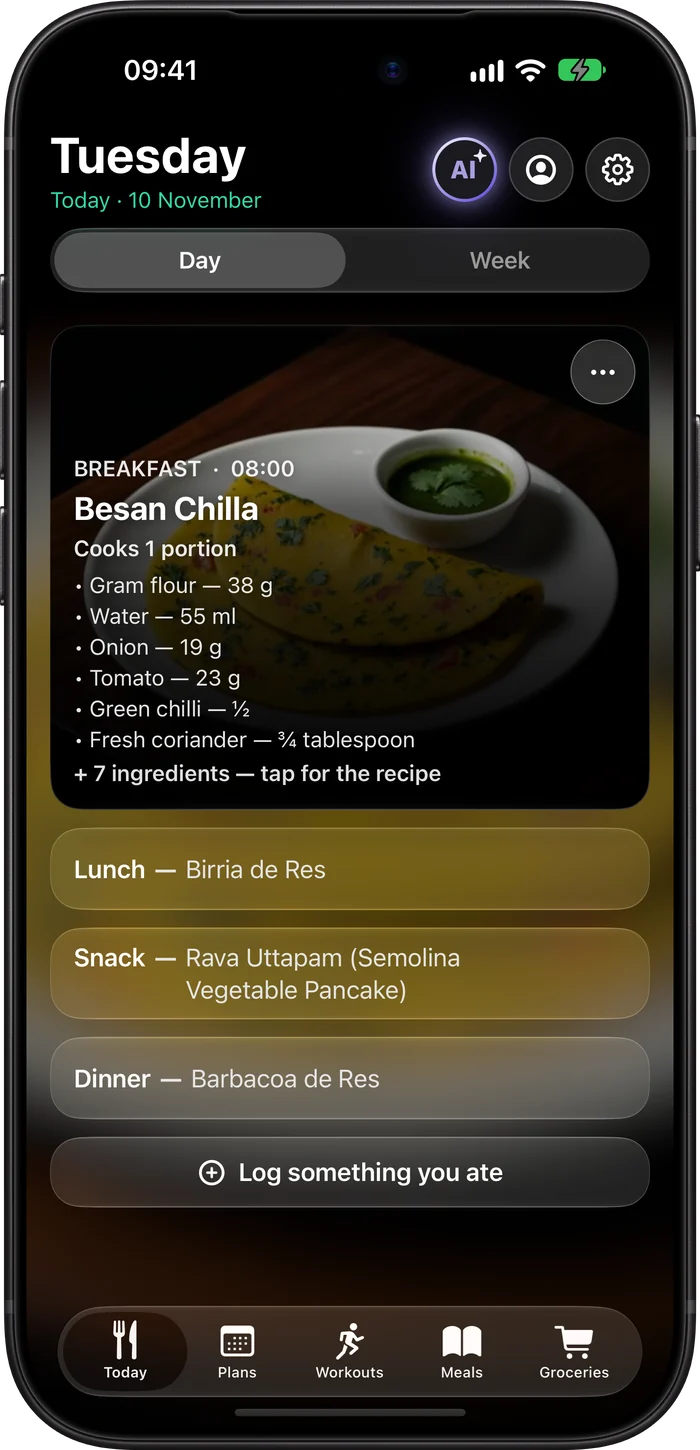
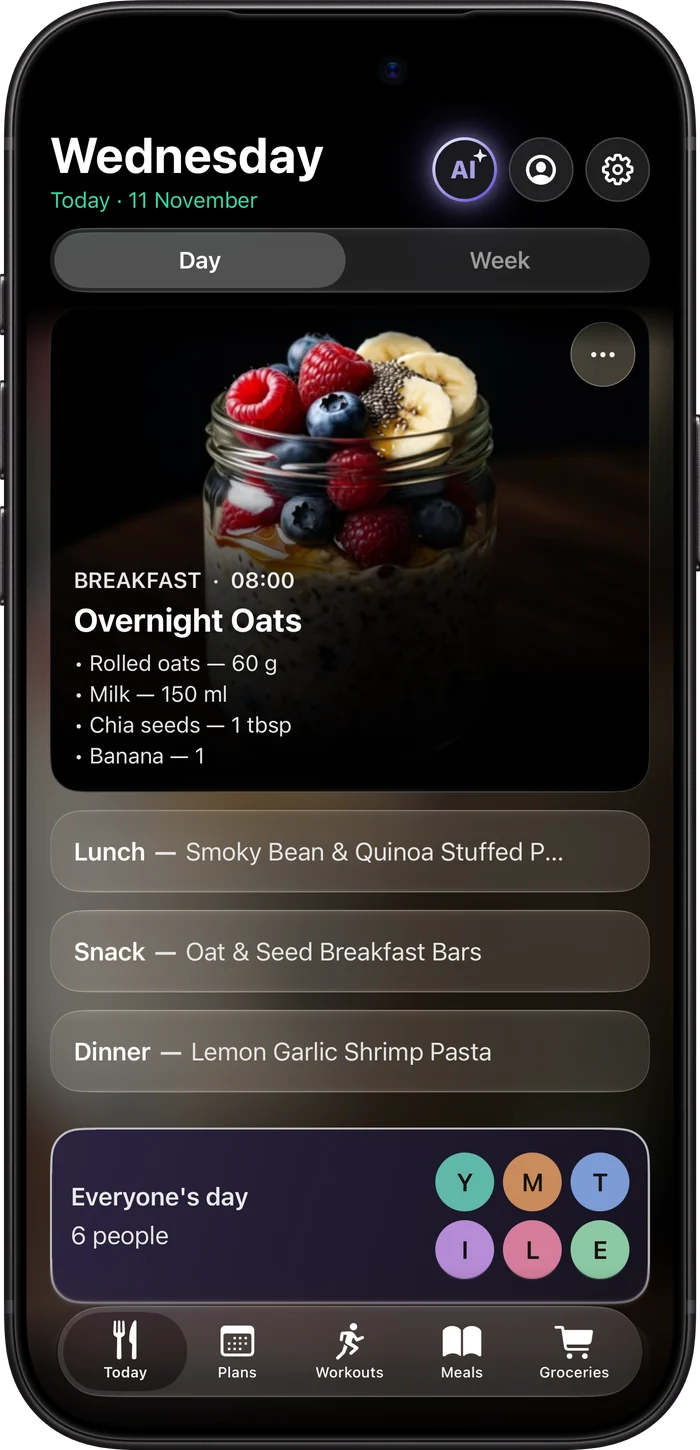
The familiar week on every phone, no status bar, the household section, three plans in the price answer
André, 2026-11-11: "yes publish it". Source: the website repo 4a9877c (local).

diff --git a/index.html b/index.html
@@ -38,7 +38,7 @@
       <p class="soon"><i aria-hidden="true"></i><span>Coming soon to the App Store</span></p>
     </div>
     <figure class="phone hero-phone">
-      <picture><source srcset="assets/hero-iphone.webp?v=5c231a31 760w, assets/hero-iphone@2x.webp?v=8dc84dbd 1140w" sizes="(max-width: 900px) 300px, 440px" type="image/webp"><img src="assets/hero-iphone.png?v=730b5ca4" srcset="assets/hero-iphone.png?v=730b5ca4 760w, assets/hero-iphone@2x.png?v=c7132574 1140w"
+      <picture><source srcset="assets/hero-iphone.webp?v=f7dcc6ce 760w, assets/hero-iphone@2x.webp?v=64be5ce1 1140w" sizes="(max-width: 900px) 300px, 440px" type="image/webp"><img src="assets/hero-iphone.png?v=5732d93a" srcset="assets/hero-iphone.png?v=5732d93a 760w, assets/hero-iphone@2x.png?v=6419e1a2 1140w"
            sizes="(max-width: 900px) 300px, 440px" alt="NoNor's Today screen on iPhone"></picture>
     </figure>
   </div>
@@ -48,37 +48,41 @@
   <div class="rule"></div>
   <p>Plan the week once.<br>Then just do <em>the next thing</em>.</p>
   <div class="rule"></div>
-  <nav class="map" aria-label="What NoNor does"><a class="it" href="#plan"><span class="ic"><svg viewBox="0 0 24 24" fill="none" stroke="currentColor" stroke-width="1.8" stroke-linecap="round" stroke-linejoin="round" aria-hidden="true"><rect x="3" y="5" width="18" height="16" rx="3"/><path d="M3 10h18M8 3v4M16 3v4"/></svg></span><span>Plan</span></a><a class="it" href="#food"><span class="ic"><svg viewBox="0 0 24 24" fill="none" stroke="currentColor" stroke-width="1.8" stroke-linecap="round" stroke-linejoin="round" aria-hidden="true"><path d="M7 3v8M5 3v5a2 2 0 0 0 4 0V3M7 11v10M17 3c-2 1-3 4-3 7h3v11"/></svg></span><span>Eat</span></a><a class="it" href="#move"><span class="ic"><svg viewBox="0 0 24 24" fill="none" stroke="currentColor" stroke-width="1.8" stroke-linecap="round" stroke-linejoin="round" aria-hidden="true"><path d="M6.5 6.5v11M17.5 6.5v11M3.5 9v6M20.5 9v6M6.5 12h11"/></svg></span><span>Move</span></a></nav>
+  <nav class="map" aria-label="What NoNor does"><a class="it" href="#plan"><span class="ic"><svg viewBox="0 0 24 24" fill="none" stroke="currentColor" stroke-width="1.8" stroke-linecap="round" stroke-linejoin="round" aria-hidden="true"><rect x="3" y="5" width="18" height="16" rx="3"/><path d="M3 10h18M8 3v4M16 3v4"/></svg></span><span>Plan</span></a><a class="it" href="#household"><span class="ic"><svg viewBox="0 0 24 24" fill="none" stroke="currentColor" stroke-width="1.8" stroke-linecap="round" stroke-linejoin="round" aria-hidden="true"><circle cx="9" cy="8" r="3.2"/><path d="M3 20c0-3.3 2.7-6 6-6s6 2.7 6 6"/><circle cx="17" cy="9" r="2.6"/><path d="M16.2 14.1c2.7.4 4.8 2.8 4.8 5.9"/></svg></span><span>Together</span></a><a class="it" href="#food"><span class="ic"><svg viewBox="0 0 24 24" fill="none" stroke="currentColor" stroke-width="1.8" stroke-linecap="round" stroke-linejoin="round" aria-hidden="true"><path d="M7 3v8M5 3v5a2 2 0 0 0 4 0V3M7 11v10M17 3c-2 1-3 4-3 7h3v11"/></svg></span><span>Eat</span></a><a class="it" href="#move"><span class="ic"><svg viewBox="0 0 24 24" fill="none" stroke="currentColor" stroke-width="1.8" stroke-linecap="round" stroke-linejoin="round" aria-hidden="true"><path d="M6.5 6.5v11M17.5 6.5v11M3.5 9v6M20.5 9v6M6.5 12h11"/></svg></span><span>Move</span></a></nav>
 </div></section>
 
 <div id="features"></div>
 
 <section class="chapter" id="plan"><div class="wrap grid">
   <div class="txt reveal"><p class="kicker"><span class="ic"><svg viewBox="0 0 24 24" fill="none" stroke="currentColor" stroke-width="1.8" stroke-linecap="round" stroke-linejoin="round" aria-hidden="true"><rect x="3" y="5" width="18" height="16" rx="3"/><path d="M3 10h18M8 3v4M16 3v4"/></svg></span>One plan</p><h2>Meals and training on the <em>same calendar.</em></h2><p class="lead">Let NoNor draft the week, with your food shaped around your training, or build it yourself with your coach's plan a tap away.</p><p class="pro"><span class="ic"><svg viewBox="0 0 24 24" fill="none" stroke="currentColor" stroke-width="1.8" stroke-linecap="round" stroke-linejoin="round" aria-hidden="true"><path d="M21 3 10 14M21 3l-7 18-4-7-7-4z"/></svg></span><span><b>Coaches and nutritionists:</b> build a complete plan and send it to each client with one link.</span></p></div>
-  <div class="stage reveal"><div class="card"><img src="assets/bg-plan.jpg?v=4c524e6b" alt="" loading="lazy"></div><figure class="phone"><picture><source srcset="assets/f-plans.webp?v=2c2e33bb" type="image/webp"><img src="assets/f-plans.png?v=da8592eb" alt="The plan calendar showing two weeks of meals and workouts" loading="lazy"></picture></figure></div>
+  <div class="stage reveal"><div class="card"><img src="assets/bg-plan.jpg?v=4c524e6b" alt="" loading="lazy"></div><figure class="phone"><picture><source srcset="assets/f-plans.webp?v=d1c494c0" type="image/webp"><img src="assets/f-plans.png?v=ed8eb340" alt="The plan calendar showing two weeks of meals and workouts" loading="lazy"></picture></figure></div>
+</div></section>
+<section class="chapter flip" id="household"><div class="wrap grid">
+  <div class="txt reveal"><p class="kicker"><span class="ic"><svg viewBox="0 0 24 24" fill="none" stroke="currentColor" stroke-width="1.8" stroke-linecap="round" stroke-linejoin="round" aria-hidden="true"><circle cx="9" cy="8" r="3.2"/><path d="M3 20c0-3.3 2.7-6 6-6s6 2.7 6 6"/><circle cx="17" cy="9" r="2.6"/><path d="M16.2 14.1c2.7.4 4.8 2.8 4.8 5.9"/></svg></span>Household</p><h2>One kitchen. <em>Everyone's own day.</em></h2><p class="lead">Up to six people, children without a phone included, each with their own day, portions and allergies. Give anyone their own plan and training, and one shopping list still covers everyone's week.</p></div>
+  <div class="stage reveal"><div class="card"><img src="assets/bg-household.jpg?v=c75474dc" alt="" loading="lazy" style="object-position: 0% 50%"></div><figure class="phone"><picture><source srcset="assets/f-household.webp?v=43df0746" type="image/webp"><img src="assets/f-household.png?v=9092cd16" alt="Today for the whole household: each person&#x27;s meals and workouts for the day" loading="lazy"></picture></figure></div>
 </div></section>
 <section class="chapter" id="food"><div class="wrap grid">
-  <div class="txt reveal"><p class="kicker"><span class="ic"><svg viewBox="0 0 24 24" fill="none" stroke="currentColor" stroke-width="1.8" stroke-linecap="round" stroke-linejoin="round" aria-hidden="true"><path d="M7 3v8M5 3v5a2 2 0 0 0 4 0V3M7 11v10M17 3c-2 1-3 4-3 7h3v11"/></svg></span>Meal organizer</p><h2>Every meal organized. <em>Every number calculated.</em></h2><p class="lead">Your recipes and ours in one place, planned into the week, shopped for in one list and cooked step by step. Nutrition is worked out from thousands of ingredients, nearly all from national food databases, and every dish is checked for everyone's allergies and diets.</p></div>
-  <div class="stage reveal"><div class="card food"><div class="wall" aria-hidden="true"><div class="row r0"><div class="track"><img src="assets/food/shakshuka.webp?v=2d48ee8c" alt="" loading="eager" fetchpriority="low" decoding="async" width="240" height="240"><img src="assets/food/farro_and_roasted_veg_salad.webp?v=a2a5d552" alt="" loading="eager" fetchpriority="low" decoding="async" width="240" height="240"><img src="assets/food/berry_overnight_oats.webp?v=8e34187c" alt="" loading="eager" fetchpriority="low" decoding="async" width="240" height="240"><img src="assets/food/risotto_ai_funghi.webp?v=a287b931" alt="" loading="eager" fetchpriority="low" decoding="async" width="240" height="240"><img src="assets/food/salad_shirazi.webp?v=f6f6529c" alt="" loading="eager" fetchpriority="low" decoding="async" width="240" height="240"><img src="assets/food/chickpea_butternut_tagine.webp?v=38a315c4" alt="" loading="eager" fetchpriority="low" decoding="async" width="240" height="240"><img src="assets/food/avocado_toast_with_egg.webp?v=cdf8da00" alt="" loading="eager" fetchpriority="low" decoding="async" width="240" height="240"><img src="assets/food/soba_noodle_soup.webp?v=ac51154b" alt="" loading="eager" fetchpriority="low" decoding="async" width="240" height="240"><img src="assets/food/vegetable_paella.webp?v=e407e1fe" alt="" loading="eager" fetchpriority="low" decoding="async" width="240" height="240"><img src="assets/food/waldorf_salad.webp?v=e333068a" alt="" loading="eager" fetchpriority="low" decoding="async" width="240" height="240"><img src="assets/food/taameya_egyptian_falafel.webp?v=c1a0d89e" alt="" loading="eager" fetchpriority="low" decoding="async" width="240" height="240"><img src="assets/food/strawberry_granola_parfait.webp?v=30036205" alt="" loading="eager" fetchpriority="low" decoding="async" width="240" height="240"><img src="assets/food/shakshuka.webp?v=2d48ee8c" alt="" loading="eager" fetchpriority="low" decoding="async" width="240" height="240"><img src="assets/food/farro_and_roasted_veg_salad.webp?v=a2a5d552" alt="" loading="eager" fetchpriority="low" decoding="async" width="240" height="240"><img src="assets/food/berry_overnight_oats.webp?v=8e34187c" alt="" loading="eager" fetchpriority="low" decoding="async" width="240" height="240"><img src="assets/food/risotto_ai_funghi.webp?v=a287b931" alt="" loading="eager" fetchpriority="low" decoding="async" width="240" height="240"><img src="assets/food/salad_shirazi.webp?v=f6f6529c" alt="" loading="eager" fetchpriority="low" decoding="async" width="240" height="240"><img src="assets/food/chickpea_butternut_tagine.webp?v=38a315c4" alt="" loading="eager" fetchpriority="low" decoding="async" width="240" height="240"><img src="assets/food/avocado_toast_with_egg.webp?v=cdf8da00" alt="" loading="eager" fetchpriority="low" decoding="async" width="240" height="240"><img src="assets/food/soba_noodle_soup.webp?v=ac51154b" alt="" loading="eager" fetchpriority="low" decoding="async" width="240" height="240"><img src="assets/food/vegetable_paella.webp?v=e407e1fe" alt="" loading="eager" fetchpriority="low" decoding="async" width="240" height="240"><img src="assets/food/waldorf_salad.webp?v=e333068a" alt="" loading="eager" fetchpriority="low" decoding="async" width="240" height="240"><img src="assets/food/taameya_egyptian_falafel.webp?v=c1a0d89e" alt="" loading="eager" fetchpriority="low" decoding="async" width="240" height="240"><img src="assets/food/strawberry_granola_parfait.webp?v=30036205" alt="" loading="eager" fetchpriority="low" decoding="async" width="240" height="240"></div></div><div class="row r1"><div class="track"><img src="assets/food/crispy_tofu_buddha_bowl.webp?v=65043e0f" alt="" loading="eager" fetchpriority="low" decoding="async" width="240" height="240"><img src="assets/food/cherry_tomato_and_mozzarella_pasta.webp?v=eadd3695" alt="" loading="eager" fetchpriority="low" decoding="async" width="240" height="240"><img src="assets/food/gazpacho_andaluz.webp?v=58b326af" alt="" loading="eager" fetchpriority="low" decoding="async" width="240" height="240"><img src="assets/food/lentil_feta_roasted_beet_bowl.webp?v=f9b3bdc6" alt="" loading="eager" fetchpriority="low" decoding="async" width="240" height="240"><img src="assets/food/buttermilk_blueberry_pancakes.webp?v=95162a3c" alt="" loading="eager" fetchpriority="low" decoding="async" width="240" height="240"><img src="assets/food/larb_tao_hu_thai_crumbled_tofu_herb_salad.webp?v=c1054a94" alt="" loading="eager" fetchpriority="low" decoding="async" width="240" height="240"><img src="assets/food/salmon_quinoa_bowl_with_roasted_veg.webp?v=0553f9d3" alt="" loading="eager" fetchpriority="low" decoding="async" width="240" height="240"><img src="assets/food/hummus_veggie_sticks.webp?v=3a87432e" alt="" loading="eager" fetchpriority="low" decoding="async" width="240" height="240"><img src="assets/food/frittata_di_zucchine.webp?v=a71fc45b" alt="" loading="eager" fetchpriority="low" decoding="async" width="240" height="240"><img src="assets/food/spinach_and_strawberry_salad.webp?v=0c65a11c" alt="" loading="eager" fetchpriority="low" decoding="async" width="240" height="240"><img src="assets/food/paella_de_marisco.webp?v=8c14d0ef" alt="" loading="eager" fetchpriority="low" decoding="async" width="240" height="240"><img src="assets/food/wild_rice_salad.webp?v=061606f0" alt="" loading="eager" fetchpriority="low" decoding="async" width="240" height="240"><img src="assets/food/crispy_tofu_buddha_bowl.webp?v=65043e0f" alt="" loading="eager" fetchpriority="low" decoding="async" width="240" height="240"><img src="assets/food/cherry_tomato_and_mozzarella_pasta.webp?v=eadd3695" alt="" loading="eager" fetchpriority="low" decoding="async" width="240" height="240"><img src="assets/food/gazpacho_andaluz.webp?v=58b326af" alt="" loading="eager" fetchpriority="low" decoding="async" width="240" height="240"><img src="assets/food/lentil_feta_roasted_beet_bowl.webp?v=f9b3bdc6" alt="" loading="eager" fetchpriority="low" decoding="async" width="240" height="240"><img src="assets/food/buttermilk_blueberry_pancakes.webp?v=95162a3c" alt="" loading="eager" fetchpriority="low" decoding="async" width="240" height="240"><img src="assets/food/larb_tao_hu_thai_crumbled_tofu_herb_salad.webp?v=c1054a94" alt="" loading="eager" fetchpriority="low" decoding="async" width="240" height="240"><img src="assets/food/salmon_quinoa_bowl_with_roasted_veg.webp?v=0553f9d3" alt="" loading="eager" fetchpriority="low" decoding="async" width="240" height="240"><img src="assets/food/hummus_veggie_sticks.webp?v=3a87432e" alt="" loading="eager" fetchpriority="low" decoding="async" width="240" height="240"><img src="assets/food/frittata_di_zucchine.webp?v=a71fc45b" alt="" loading="eager" fetchpriority="low" decoding="async" width="240" height="240"><img src="assets/food/spinach_and_strawberry_salad.webp?v=0c65a11c" alt="" loading="eager" fetchpriority="low" decoding="async" width="240" height="240"><img src="assets/food/paella_de_marisco.webp?v=8c14d0ef" alt="" loading="eager" fetchpriority="low" decoding="async" width="240" height="240"><img src="assets/food/wild_rice_salad.webp?v=061606f0" alt="" loading="eager" fetchpriority="low" decoding="async" width="240" height="240"></div></div><div class="row r2"><div class="track"><img src="assets/food/avocado_toast_with_egg.webp?v=cdf8da00" alt="" loading="eager" fetchpriority="low" decoding="async" width="240" height="240"><img src="assets/food/soba_noodle_soup.webp?v=ac51154b" alt="" loading="eager" fetchpriority="low" decoding="async" width="240" height="240"><img src="assets/food/vegetable_paella.webp?v=e407e1fe" alt="" loading="eager" fetchpriority="low" decoding="async" width="240" height="240"><img src="assets/food/waldorf_salad.webp?v=e333068a" alt="" loading="eager" fetchpriority="low" decoding="async" width="240" height="240"><img src="assets/food/taameya_egyptian_falafel.webp?v=c1a0d89e" alt="" loading="eager" fetchpriority="low" decoding="async" width="240" height="240"><img src="assets/food/strawberry_granola_parfait.webp?v=30036205" alt="" loading="eager" fetchpriority="low" decoding="async" width="240" height="240"><img src="assets/food/shakshuka.webp?v=2d48ee8c" alt="" loading="eager" fetchpriority="low" decoding="async" width="240" height="240"><img src="assets/food/farro_and_roasted_veg_salad.webp?v=a2a5d552" alt="" loading="eager" fetchpriority="low" decoding="async" width="240" height="240"><img src="assets/food/berry_overnight_oats.webp?v=8e34187c" alt="" loading="eager" fetchpriority="low" decoding="async" width="240" height="240"><img src="assets/food/risotto_ai_funghi.webp?v=a287b931" alt="" loading="eager" fetchpriority="low" decoding="async" width="240" height="240"><img src="assets/food/salad_shirazi.webp?v=f6f6529c" alt="" loading="eager" fetchpriority="low" decoding="async" width="240" height="240"><img src="assets/food/chickpea_butternut_tagine.webp?v=38a315c4" alt="" loading="eager" fetchpriority="low" decoding="async" width="240" height="240"><img src="assets/food/avocado_toast_with_egg.webp?v=cdf8da00" alt="" loading="eager" fetchpriority="low" decoding="async" width="240" height="240"><img src="assets/food/soba_noodle_soup.webp?v=ac51154b" alt="" loading="eager" fetchpriority="low" decoding="async" width="240" height="240"><img src="assets/food/vegetable_paella.webp?v=e407e1fe" alt="" loading="eager" fetchpriority="low" decoding="async" width="240" height="240"><img src="assets/food/waldorf_salad.webp?v=e333068a" alt="" loading="eager" fetchpriority="low" decoding="async" width="240" height="240"><img src="assets/food/taameya_egyptian_falafel.webp?v=c1a0d89e" alt="" loading="eager" fetchpriority="low" decoding="async" width="240" height="240"><img src="assets/food/strawberry_granola_parfait.webp?v=30036205" alt="" loading="eager" fetchpriority="low" decoding="async" width="240" height="240"><img src="assets/food/shakshuka.webp?v=2d48ee8c" alt="" loading="eager" fetchpriority="low" decoding="async" width="240" height="240"><img src="assets/food/farro_and_roasted_veg_salad.webp?v=a2a5d552" alt="" loading="eager" fetchpriority="low" decoding="async" width="240" height="240"><img src="assets/food/berry_overnight_oats.webp?v=8e34187c" alt="" loading="eager" fetchpriority="low" decoding="async" width="240" height="240"><img src="assets/food/risotto_ai_funghi.webp?v=a287b931" alt="" loading="eager" fetchpriority="low" decoding="async" width="240" height="240"><img src="assets/food/salad_shirazi.webp?v=f6f6529c" alt="" loading="eager" fetchpriority="low" decoding="async" width="240" height="240"><img src="assets/food/chickpea_butternut_tagine.webp?v=38a315c4" alt="" loading="eager" fetchpriority="low" decoding="async" width="240" height="240"></div></div></div></div><figure class="phone"><picture><source srcset="assets/f-recipes.webp?v=82797dbc" type="image/webp"><img src="assets/f-recipes.png?v=fe106c5c" alt="The Recipes tab: your plan&#x27;s dishes, your own recipes, and browsing by quick, healthy, cuisine and country" loading="lazy"></picture></figure></div>
+  <div class="txt reveal"><p class="kicker"><span class="ic"><svg viewBox="0 0 24 24" fill="none" stroke="currentColor" stroke-width="1.8" stroke-linecap="round" stroke-linejoin="round" aria-hidden="true"><path d="M7 3v8M5 3v5a2 2 0 0 0 4 0V3M7 11v10M17 3c-2 1-3 4-3 7h3v11"/></svg></span>Meal organizer</p><h2>Every meal <em>organized.</em></h2><p class="lead">Your recipes and ours in one place, planned into the week, shopped for in one list and cooked step by step. Nutrition is worked out from thousands of ingredients, nearly all from national food databases, and every dish is checked for everyone's allergies and diets.</p></div>
+  <div class="stage reveal"><div class="card food"><div class="wall" aria-hidden="true"><div class="row r0"><div class="track"><img src="assets/food/shakshuka.webp?v=2d48ee8c" alt="" loading="eager" fetchpriority="low" decoding="async" width="240" height="240"><img src="assets/food/farro_and_roasted_veg_salad.webp?v=a2a5d552" alt="" loading="eager" fetchpriority="low" decoding="async" width="240" height="240"><img src="assets/food/berry_overnight_oats.webp?v=8e34187c" alt="" loading="eager" fetchpriority="low" decoding="async" width="240" height="240"><img src="assets/food/risotto_ai_funghi.webp?v=a287b931" alt="" loading="eager" fetchpriority="low" decoding="async" width="240" height="240"><img src="assets/food/salad_shirazi.webp?v=f6f6529c" alt="" loading="eager" fetchpriority="low" decoding="async" width="240" height="240"><img src="assets/food/chickpea_butternut_tagine.webp?v=38a315c4" alt="" loading="eager" fetchpriority="low" decoding="async" width="240" height="240"><img src="assets/food/avocado_toast_with_egg.webp?v=cdf8da00" alt="" loading="eager" fetchpriority="low" decoding="async" width="240" height="240"><img src="assets/food/soba_noodle_soup.webp?v=ac51154b" alt="" loading="eager" fetchpriority="low" decoding="async" width="240" height="240"><img src="assets/food/vegetable_paella.webp?v=e407e1fe" alt="" loading="eager" fetchpriority="low" decoding="async" width="240" height="240"><img src="assets/food/waldorf_salad.webp?v=e333068a" alt="" loading="eager" fetchpriority="low" decoding="async" width="240" height="240"><img src="assets/food/taameya_egyptian_falafel.webp?v=c1a0d89e" alt="" loading="eager" fetchpriority="low" decoding="async" width="240" height="240"><img src="assets/food/strawberry_granola_parfait.webp?v=30036205" alt="" loading="eager" fetchpriority="low" decoding="async" width="240" height="240"><img src="assets/food/shakshuka.webp?v=2d48ee8c" alt="" loading="eager" fetchpriority="low" decoding="async" width="240" height="240"><img src="assets/food/farro_and_roasted_veg_salad.webp?v=a2a5d552" alt="" loading="eager" fetchpriority="low" decoding="async" width="240" height="240"><img src="assets/food/berry_overnight_oats.webp?v=8e34187c" alt="" loading="eager" fetchpriority="low" decoding="async" width="240" height="240"><img src="assets/food/risotto_ai_funghi.webp?v=a287b931" alt="" loading="eager" fetchpriority="low" decoding="async" width="240" height="240"><img src="assets/food/salad_shirazi.webp?v=f6f6529c" alt="" loading="eager" fetchpriority="low" decoding="async" width="240" height="240"><img src="assets/food/chickpea_butternut_tagine.webp?v=38a315c4" alt="" loading="eager" fetchpriority="low" decoding="async" width="240" height="240"><img src="assets/food/avocado_toast_with_egg.webp?v=cdf8da00" alt="" loading="eager" fetchpriority="low" decoding="async" width="240" height="240"><img src="assets/food/soba_noodle_soup.webp?v=ac51154b" alt="" loading="eager" fetchpriority="low" decoding="async" width="240" height="240"><img src="assets/food/vegetable_paella.webp?v=e407e1fe" alt="" loading="eager" fetchpriority="low" decoding="async" width="240" height="240"><img src="assets/food/waldorf_salad.webp?v=e333068a" alt="" loading="eager" fetchpriority="low" decoding="async" width="240" height="240"><img src="assets/food/taameya_egyptian_falafel.webp?v=c1a0d89e" alt="" loading="eager" fetchpriority="low" decoding="async" width="240" height="240"><img src="assets/food/strawberry_granola_parfait.webp?v=30036205" alt="" loading="eager" fetchpriority="low" decoding="async" width="240" height="240"></div></div><div class="row r1"><div class="track"><img src="assets/food/crispy_tofu_buddha_bowl.webp?v=65043e0f" alt="" loading="eager" fetchpriority="low" decoding="async" width="240" height="240"><img src="assets/food/cherry_tomato_and_mozzarella_pasta.webp?v=eadd3695" alt="" loading="eager" fetchpriority="low" decoding="async" width="240" height="240"><img src="assets/food/gazpacho_andaluz.webp?v=58b326af" alt="" loading="eager" fetchpriority="low" decoding="async" width="240" height="240"><img src="assets/food/lentil_feta_roasted_beet_bowl.webp?v=f9b3bdc6" alt="" loading="eager" fetchpriority="low" decoding="async" width="240" height="240"><img src="assets/food/buttermilk_blueberry_pancakes.webp?v=95162a3c" alt="" loading="eager" fetchpriority="low" decoding="async" width="240" height="240"><img src="assets/food/larb_tao_hu_thai_crumbled_tofu_herb_salad.webp?v=c1054a94" alt="" loading="eager" fetchpriority="low" decoding="async" width="240" height="240"><img src="assets/food/salmon_quinoa_bowl_with_roasted_veg.webp?v=0553f9d3" alt="" loading="eager" fetchpriority="low" decoding="async" width="240" height="240"><img src="assets/food/hummus_veggie_sticks.webp?v=3a87432e" alt="" loading="eager" fetchpriority="low" decoding="async" width="240" height="240"><img src="assets/food/frittata_di_zucchine.webp?v=a71fc45b" alt="" loading="eager" fetchpriority="low" decoding="async" width="240" height="240"><img src="assets/food/spinach_and_strawberry_salad.webp?v=0c65a11c" alt="" loading="eager" fetchpriority="low" decoding="async" width="240" height="240"><img src="assets/food/paella_de_marisco.webp?v=8c14d0ef" alt="" loading="eager" fetchpriority="low" decoding="async" width="240" height="240"><img src="assets/food/wild_rice_salad.webp?v=061606f0" alt="" loading="eager" fetchpriority="low" decoding="async" width="240" height="240"><img src="assets/food/crispy_tofu_buddha_bowl.webp?v=65043e0f" alt="" loading="eager" fetchpriority="low" decoding="async" width="240" height="240"><img src="assets/food/cherry_tomato_and_mozzarella_pasta.webp?v=eadd3695" alt="" loading="eager" fetchpriority="low" decoding="async" width="240" height="240"><img src="assets/food/gazpacho_andaluz.webp?v=58b326af" alt="" loading="eager" fetchpriority="low" decoding="async" width="240" height="240"><img src="assets/food/lentil_feta_roasted_beet_bowl.webp?v=f9b3bdc6" alt="" loading="eager" fetchpriority="low" decoding="async" width="240" height="240"><img src="assets/food/buttermilk_blueberry_pancakes.webp?v=95162a3c" alt="" loading="eager" fetchpriority="low" decoding="async" width="240" height="240"><img src="assets/food/larb_tao_hu_thai_crumbled_tofu_herb_salad.webp?v=c1054a94" alt="" loading="eager" fetchpriority="low" decoding="async" width="240" height="240"><img src="assets/food/salmon_quinoa_bowl_with_roasted_veg.webp?v=0553f9d3" alt="" loading="eager" fetchpriority="low" decoding="async" width="240" height="240"><img src="assets/food/hummus_veggie_sticks.webp?v=3a87432e" alt="" loading="eager" fetchpriority="low" decoding="async" width="240" height="240"><img src="assets/food/frittata_di_zucchine.webp?v=a71fc45b" alt="" loading="eager" fetchpriority="low" decoding="async" width="240" height="240"><img src="assets/food/spinach_and_strawberry_salad.webp?v=0c65a11c" alt="" loading="eager" fetchpriority="low" decoding="async" width="240" height="240"><img src="assets/food/paella_de_marisco.webp?v=8c14d0ef" alt="" loading="eager" fetchpriority="low" decoding="async" width="240" height="240"><img src="assets/food/wild_rice_salad.webp?v=061606f0" alt="" loading="eager" fetchpriority="low" decoding="async" width="240" height="240"></div></div><div class="row r2"><div class="track"><img src="assets/food/avocado_toast_with_egg.webp?v=cdf8da00" alt="" loading="eager" fetchpriority="low" decoding="async" width="240" height="240"><img src="assets/food/soba_noodle_soup.webp?v=ac51154b" alt="" loading="eager" fetchpriority="low" decoding="async" width="240" height="240"><img src="assets/food/vegetable_paella.webp?v=e407e1fe" alt="" loading="eager" fetchpriority="low" decoding="async" width="240" height="240"><img src="assets/food/waldorf_salad.webp?v=e333068a" alt="" loading="eager" fetchpriority="low" decoding="async" width="240" height="240"><img src="assets/food/taameya_egyptian_falafel.webp?v=c1a0d89e" alt="" loading="eager" fetchpriority="low" decoding="async" width="240" height="240"><img src="assets/food/strawberry_granola_parfait.webp?v=30036205" alt="" loading="eager" fetchpriority="low" decoding="async" width="240" height="240"><img src="assets/food/shakshuka.webp?v=2d48ee8c" alt="" loading="eager" fetchpriority="low" decoding="async" width="240" height="240"><img src="assets/food/farro_and_roasted_veg_salad.webp?v=a2a5d552" alt="" loading="eager" fetchpriority="low" decoding="async" width="240" height="240"><img src="assets/food/berry_overnight_oats.webp?v=8e34187c" alt="" loading="eager" fetchpriority="low" decoding="async" width="240" height="240"><img src="assets/food/risotto_ai_funghi.webp?v=a287b931" alt="" loading="eager" fetchpriority="low" decoding="async" width="240" height="240"><img src="assets/food/salad_shirazi.webp?v=f6f6529c" alt="" loading="eager" fetchpriority="low" decoding="async" width="240" height="240"><img src="assets/food/chickpea_butternut_tagine.webp?v=38a315c4" alt="" loading="eager" fetchpriority="low" decoding="async" width="240" height="240"><img src="assets/food/avocado_toast_with_egg.webp?v=cdf8da00" alt="" loading="eager" fetchpriority="low" decoding="async" width="240" height="240"><img src="assets/food/soba_noodle_soup.webp?v=ac51154b" alt="" loading="eager" fetchpriority="low" decoding="async" width="240" height="240"><img src="assets/food/vegetable_paella.webp?v=e407e1fe" alt="" loading="eager" fetchpriority="low" decoding="async" width="240" height="240"><img src="assets/food/waldorf_salad.webp?v=e333068a" alt="" loading="eager" fetchpriority="low" decoding="async" width="240" height="240"><img src="assets/food/taameya_egyptian_falafel.webp?v=c1a0d89e" alt="" loading="eager" fetchpriority="low" decoding="async" width="240" height="240"><img src="assets/food/strawberry_granola_parfait.webp?v=30036205" alt="" loading="eager" fetchpriority="low" decoding="async" width="240" height="240"><img src="assets/food/shakshuka.webp?v=2d48ee8c" alt="" loading="eager" fetchpriority="low" decoding="async" width="240" height="240"><img src="assets/food/farro_and_roasted_veg_salad.webp?v=a2a5d552" alt="" loading="eager" fetchpriority="low" decoding="async" width="240" height="240"><img src="assets/food/berry_overnight_oats.webp?v=8e34187c" alt="" loading="eager" fetchpriority="low" decoding="async" width="240" height="240"><img src="assets/food/risotto_ai_funghi.webp?v=a287b931" alt="" loading="eager" fetchpriority="low" decoding="async" width="240" height="240"><img src="assets/food/salad_shirazi.webp?v=f6f6529c" alt="" loading="eager" fetchpriority="low" decoding="async" width="240" height="240"><img src="assets/food/chickpea_butternut_tagine.webp?v=38a315c4" alt="" loading="eager" fetchpriority="low" decoding="async" width="240" height="240"></div></div></div></div><figure class="phone"><picture><source srcset="assets/f-recipes.webp?v=73547600" type="image/webp"><img src="assets/f-recipes.png?v=83ca767d" alt="The Recipes tab: your plan&#x27;s dishes, your own recipes, and browsing by quick, healthy, cuisine and country" loading="lazy"></picture></figure></div>
 </div></section>
 <section class="chapter flip" id="move"><div class="wrap grid">
   <div class="txt reveal"><p class="kicker"><span class="ic"><svg viewBox="0 0 24 24" fill="none" stroke="currentColor" stroke-width="1.8" stroke-linecap="round" stroke-linejoin="round" aria-hidden="true"><path d="M6.5 6.5v11M17.5 6.5v11M3.5 9v6M20.5 9v6M6.5 12h11"/></svg></span>Move</p><h2>Train <em>at home.</em></h2><p class="lead">Your sessions and ours, planned into the same week as your meals and guided rep by rep, with a video you film for any exercise of your own.</p></div>
   <div class="stage reveal"><div class="card"><img src="assets/bg-ride.jpg?v=a0db5191" alt="" loading="lazy" style="object-position: 100% 50%"></div>
-    <figure class="phone"><picture><source srcset="assets/f-workouts.webp?v=e0074a10" type="image/webp"><img src="assets/f-workouts.png?v=87ec9400" alt="The Workouts tab: cardio, outdoor cardio, strength, calisthenics, mobility and balance" loading="lazy"></picture></figure></div>
+    <figure class="phone"><picture><source srcset="assets/f-workouts.webp?v=b3fcbba1" type="image/webp"><img src="assets/f-workouts.png?v=631fe340" alt="The Workouts tab: cardio, outdoor cardio, strength, calisthenics, mobility and balance" loading="lazy"></picture></figure></div>
 </div></section>
 <section class="chapter ride"><div class="wrap">
   <div class="txt center reveal"><h2>Ride a real road <em>indoors.</em></h2><p class="lead">On a Bluetooth bike or cross-trainer, Apple's 3D map moves with you, and on a machine that allows it the road's real hills set the resistance.</p></div>
   <figure class="landscape reveal"><picture><source srcset="assets/f-ride.webp?v=2cefbf4b" type="image/webp"><img src="assets/f-ride.png?v=87e21fb3" alt="The 3D ride down a tree-lined avenue past Hedvig Eleonora church in Stockholm" loading="lazy"></picture></figure>
 </div></section><section class="chapter more"><div class="wrap"><div class="tiles"><article class="tile reveal"><img src="assets/move-outdoors.jpg?v=142c4765" alt="A runner and a cyclist on a forest road at dusk" loading="lazy" style="object-position: 72% 50%"><div class="t"><h3>Head <em>outdoors.</em></h3><p>Walk, run or ride. NoNor plans up to three loops from where you are, on real streets with their real hills, and lets you race the ghost of your best.</p></div></article><article class="tile reveal"><img src="assets/move-water.jpg?v=1d2430f7" alt="A swimmer crossing a misty lake at sunrise" loading="lazy" style="object-position: 74% 50%"><div class="t"><h3>Into <em>the water.</em></h3><p>Pool and open-water swims on your Apple Watch, with lengths counted in the pool and your pace per 100 m.</p></div></article></div></div></section>
-<section class="chapter flip" id="yourway"><div class="wrap grid">
+<section class="chapter" id="yourway"><div class="wrap grid">
   <div class="txt reveal"><p class="kicker"><span class="ic"><svg viewBox="0 0 24 24" fill="none" stroke="currentColor" stroke-width="1.8" stroke-linecap="round" stroke-linejoin="round" aria-hidden="true"><rect x="2" y="7" width="20" height="10" rx="5"/><circle cx="16" cy="12" r="2.6"/></svg></span>Your way</p><h2>Not into tracking? <em>We've got you covered.</em></h2><p class="lead">Hide calories and macros wherever you'd rather not see them, and the screen closes up around what's left. NoNor still balances every meal behind the scenes, so your plan works exactly the same. Water, weight, body measurements and progress photos stay out of your way until you choose to use them. Your workouts keep a quiet record, there when you want to look.</p><p class="pro"><span class="ic"><svg viewBox="0 0 24 24" fill="none" stroke="currentColor" stroke-width="1.8" stroke-linecap="round" stroke-linejoin="round" aria-hidden="true"><path d="M4 20V10M10 20V4M16 20v-7M22 20H2"/></svg></span><span><b>Want every number?</b> It's all there: every workout recorded, with your records, trends and a chart for each exercise.</span></p></div>
-  <div class="stage reveal"><div class="card"><img src="assets/bg-end.jpg?v=44294ae7" alt="" loading="lazy"></div><figure class="phone"><picture><source srcset="assets/f-clean.webp?v=0ce27ce9" type="image/webp"><img src="assets/f-clean.png?v=99b204ea" alt="NoNor&#x27;s day screen with every number hidden: just the meals and the next thing to do" loading="lazy"></picture></figure></div>
+  <div class="stage reveal"><div class="card"><img src="assets/bg-end.jpg?v=44294ae7" alt="" loading="lazy"></div><figure class="phone"><picture><source srcset="assets/f-clean.webp?v=d71ac5d5" type="image/webp"><img src="assets/f-clean.png?v=bd7faf9b" alt="NoNor&#x27;s day screen with every number hidden: just the meals and the next thing to do" loading="lazy"></picture></figure></div>
 </div></section>
 
 <section class="runs"><div class="wrap reveal">
   <div class="family">
-    <picture><source srcset="assets/f-ipad.webp?v=9d040bcc" type="image/webp"><img src="assets/f-ipad.png?v=f291c0e7" class="f-pad" alt="NoNor on iPad" loading="lazy"></picture>
-    <picture><source srcset="assets/hero-iphone.webp?v=5c231a31" type="image/webp"><img src="assets/hero-iphone.png?v=730b5ca4" class="f-phone" alt="NoNor on iPhone" loading="lazy"></picture>
+    <picture><source srcset="assets/f-ipad.webp?v=84430d2d" type="image/webp"><img src="assets/f-ipad.png?v=d6951155" class="f-pad" alt="NoNor on iPad" loading="lazy"></picture>
+    <picture><source srcset="assets/hero-iphone.webp?v=f7dcc6ce" type="image/webp"><img src="assets/hero-iphone.png?v=5732d93a" class="f-phone" alt="NoNor on iPhone" loading="lazy"></picture>
     <picture><source srcset="assets/f-watch.webp?v=3c2114a3" type="image/webp"><img src="assets/f-watch.png?v=330586b5" class="f-watch" alt="NoNor on Apple Watch" loading="lazy"></picture>
   </div>
   <p>One app. Your plan on every screen you own.</p>
@@ -87,7 +91,7 @@
 <section class="faq"><div class="wrap grid">
   <div class="side reveal"><h2>Questions</h2>
     <p class="lead">Anything else? Write to <a href="mailto:support@nonorpro.com">support@nonorpro.com</a> and a person will answer.</p></div>
-  <div class="list reveal"><details><summary>What does it cost?</summary><p>NoNor is free for 14 days, without its AI. You start the trial through Apple and, unless you cancel, it renews into the plan you chose: NoNor Plus at $14.99 a month or $149.99 a year, or NoNor Pro at $24.99 a month or $249.99 a year. Both include AI for the whole family through Family Sharing. Upgrade during the trial to get the AI at once; that ends the free days and starts your paid plan. These are US prices; the App Store shows the price where you live.</p></details><details><summary>Do I have to log what I eat?</summary><p>No. Following the plan is the whole job. NoNor keeps a quiet record of what your plan served and what you trained, there when you want to look and easy to hide when you don't.</p></details><details><summary>Does everyone in my household need an iPhone?</summary><p>No. Add the people you cook for on your own phone, children included. Each gets their own day, portions and allergies, and their own plan if they need one.</p></details><details><summary>Can a nutritionist or coach send me a plan?</summary><p>Yes. They build the plan in NoNor and send it as a link. Open it on your iPhone and the whole plan, every recipe and session, is added to yours.</p></details><details><summary>Can NoNor keep me safe from an allergen?</summary><p>It warns you, for each person you cook for, and it can swap an ingredient out. It is a help, not a guarantee — always check the pack.</p></details><details><summary>Where does my information live?</summary><p>On your devices and in your own iCloud account. See the privacy policy.</p></details></div>
+  <div class="list reveal"><details><summary>What does it cost?</summary><p>There are three plans, and you can share each one with your family through Family Sharing.</p><p><b>NoNor</b>: your meals, workouts and groceries, planned. $12.99 a month or $129.99 a year, and your first 2 weeks are free.</p><p><b>NoNor Plus</b>: everything in NoNor, plus an AI assistant that does the planning for you. $14.99 a month or $149.99 a year.</p><p><b>NoNor Pro</b>: everything in Plus, with three times the assistant every month. $24.99 a month or $249.99 a year.</p><p>The 2 free weeks come with NoNor; Plus and Pro start the day you buy them. Cancel any time in your iPhone's Settings. These are US prices; the App Store shows the price where you live.</p></details><details><summary>Do I have to log what I eat?</summary><p>No. Following the plan is the whole job. NoNor keeps a quiet record of what your plan served and what you trained, there when you want to look and easy to hide when you don't.</p></details><details><summary>Does everyone in my household need an iPhone?</summary><p>No. Add the people you cook for on your own phone, children included. Each gets their own day, portions and allergies, and their own plan if they need one.</p></details><details><summary>Can a nutritionist or coach send me a plan?</summary><p>Yes. They build the plan in NoNor and send it as a link. Open it on your iPhone and the whole plan, every recipe and session, is added to yours.</p></details><details><summary>Can NoNor keep me safe from an allergen?</summary><p>It warns you, for each person you cook for, and it can swap an ingredient out. It is a help, not a guarantee — always check the pack.</p></details><details><summary>Where does my information live?</summary><p>On your devices and in your own iCloud account. See the privacy policy.</p></details></div>
 </div></section>
 
 <section class="close">

diff --git a/support.html b/support.html
@@ -32,7 +32,7 @@
 <p>Write to <a href="mailto:support@nonorpro.com">support@nonorpro.com</a> and a person will answer. Tell us which device you are
 on, the version of NoNor (Settings, at the bottom) and what you expected to happen.</p>
 <h2>Common questions</h2>
-<h3>What does it cost?</h3><p>NoNor is free for 14 days, without its AI. You start the trial through Apple and, unless you cancel, it renews into the plan you chose: NoNor Plus at $14.99 a month or $149.99 a year, or NoNor Pro at $24.99 a month or $249.99 a year. Both include AI for the whole family through Family Sharing. Upgrade during the trial to get the AI at once; that ends the free days and starts your paid plan. These are US prices; the App Store shows the price where you live.</p><h3>Do I have to log what I eat?</h3><p>No. Following the plan is the whole job. NoNor keeps a quiet record of what your plan served and what you trained, there when you want to look and easy to hide when you don't.</p><h3>Does everyone in my household need an iPhone?</h3><p>No. Add the people you cook for on your own phone, children included. Each gets their own day, portions and allergies, and their own plan if they need one.</p><h3>Can a nutritionist or coach send me a plan?</h3><p>Yes. They build the plan in NoNor and send it as a link. Open it on your iPhone and the whole plan, every recipe and session, is added to yours.</p><h3>Can NoNor keep me safe from an allergen?</h3><p>It warns you, for each person you cook for, and it can swap an ingredient out. It is a help, not a guarantee — always check the pack.</p><h3>Where does my information live?</h3><p>On your devices and in your own iCloud account. See the privacy policy.</p>
+<h3>What does it cost?</h3><p>There are three plans, and you can share each one with your family through Family Sharing.</p><p><b>NoNor</b>: your meals, workouts and groceries, planned. $12.99 a month or $129.99 a year, and your first 2 weeks are free.</p><p><b>NoNor Plus</b>: everything in NoNor, plus an AI assistant that does the planning for you. $14.99 a month or $149.99 a year.</p><p><b>NoNor Pro</b>: everything in Plus, with three times the assistant every month. $24.99 a month or $249.99 a year.</p><p>The 2 free weeks come with NoNor; Plus and Pro start the day you buy them. Cancel any time in your iPhone's Settings. These are US prices; the App Store shows the price where you live.</p><h3>Do I have to log what I eat?</h3><p>No. Following the plan is the whole job. NoNor keeps a quiet record of what your plan served and what you trained, there when you want to look and easy to hide when you don't.</p><h3>Does everyone in my household need an iPhone?</h3><p>No. Add the people you cook for on your own phone, children included. Each gets their own day, portions and allergies, and their own plan if they need one.</p><h3>Can a nutritionist or coach send me a plan?</h3><p>Yes. They build the plan in NoNor and send it as a link. Open it on your iPhone and the whole plan, every recipe and session, is added to yours.</p><h3>Can NoNor keep me safe from an allergen?</h3><p>It warns you, for each person you cook for, and it can swap an ingredient out. It is a help, not a guarantee — always check the pack.</p><h3>Where does my information live?</h3><p>On your devices and in your own iCloud account. See the privacy policy.</p>
 <h2>The small print</h2>
 <p><a href="privacy.html">Privacy Policy</a> · <a href="health-data.html">Consumer Health Data Privacy Policy</a> · <a href="terms.html">Terms of Use</a></p>
 <p>NoNor is not a medical device and does not give medical advice.</p>
